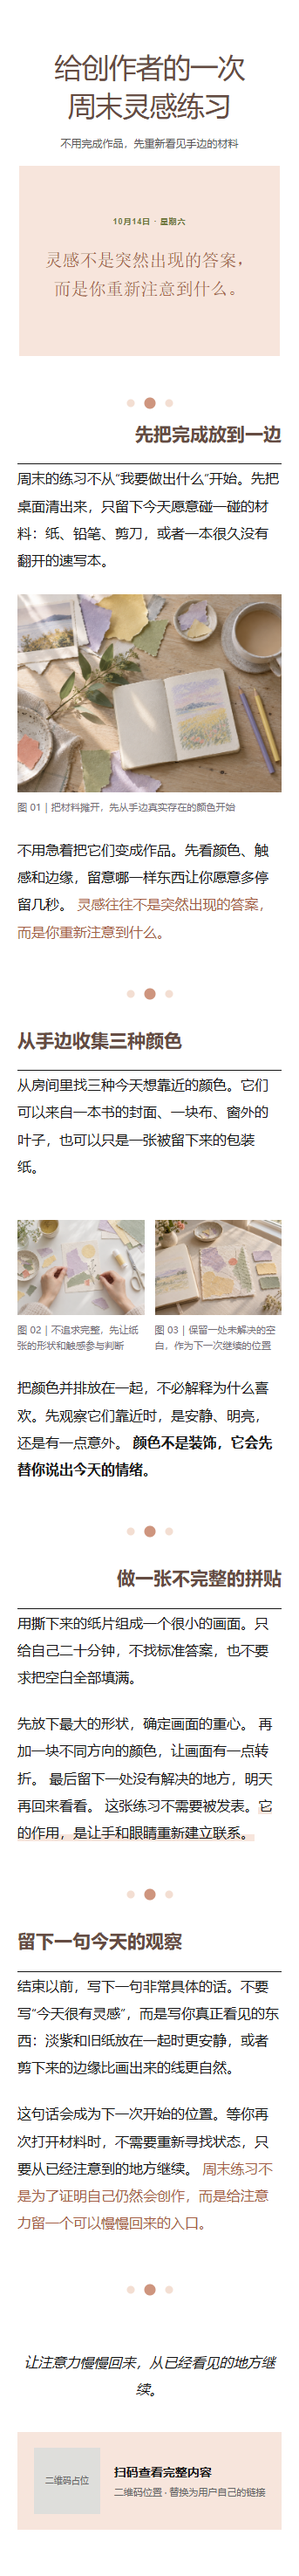
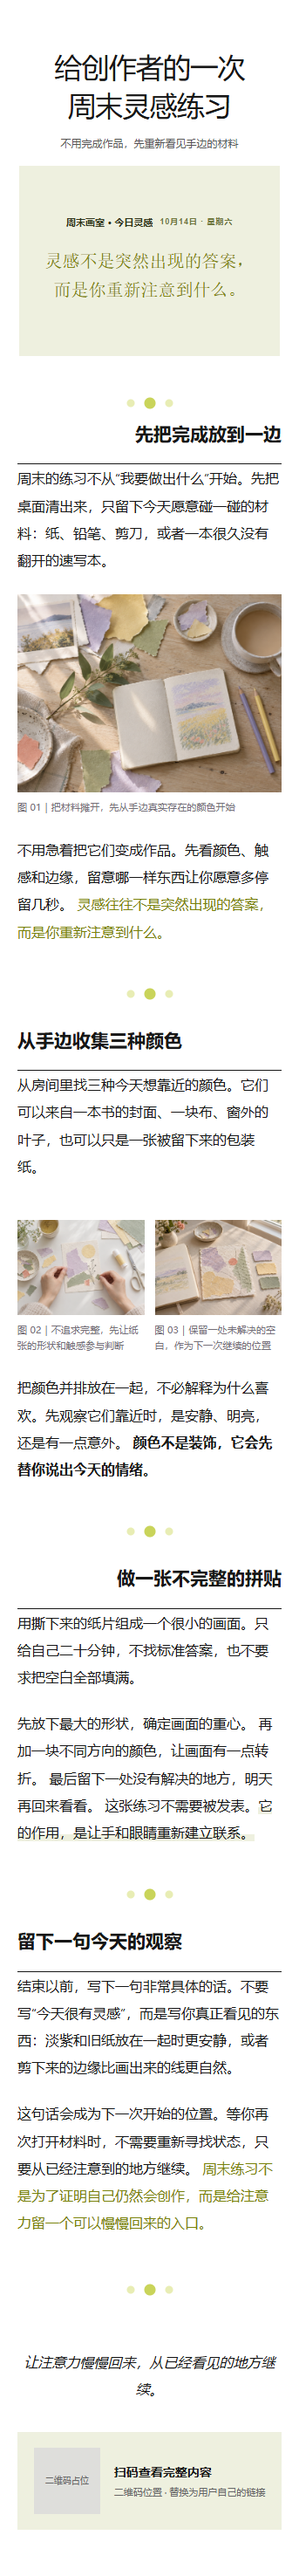
Restore approved WeChat gallery colors

diff --git a/visual-island-test/wechat-templates.js b/visual-island-test/wechat-templates.js
@@ -1,7 +1,7 @@
 (()=>{'use strict';
  const R=window.WechatTemplateRegistry,ids=R.visibleIds||[];
  const desc={'mengyu-purple-editorial':'紫调摄影导语、正文配图与编辑节奏','pastel-art-editorial':'周末灵感导语、粉彩留白与轻盈记录','monochrome-order':'秩序笔记导语、黑白细线与信息层级','warm-orange-journal':'慢行手账导语、浅暖纸张与旅行叙事','warm-beige-lifestyle':'日常器物导语、暖米叠层与生活节奏',green:'自然观察导语、橄榄标签与舒展编注'};
-const templates=ids.map(id=>({id,name:R[id].name,desc:desc[id],image:'assets/showcase/wechat-template-'+id+'-full.png?v=english-decor-049'}));
+const templates=ids.map(id=>({id,name:R[id].name,desc:desc[id],image:'assets/showcase/wechat-template-'+id+'-full.png?v=color-restore-050'}));
  const $=s=>document.querySelector(s),gallery=$('#templateGallery'),dialog=$('#fullPreviewDialog'),previewImage=$('#fullPreviewImage'),previewTitle=$('#fullPreviewTitle'),dialogEdit=$('#dialogEditLink'),dialogDownload=$('#dialogDownload'),toast=$('#templateToast');let active=templates[0];
  const esc=s=>String(s).replace(/[&<>"']/g,c=>({'&':'&amp;','<':'&lt;','>':'&gt;','"':'&quot;',"'":'&#39;'}[c]));
  gallery.innerHTML=templates.map(t=>`<article class="template-card" data-template-id="${t.id}"><button class="template-visual" type="button" data-preview="${t.id}" aria-label="预览${esc(t.name)}完整长图"><img src="${t.image}" alt="${esc(t.name)}R2公众号模板长图预览" loading="eager" decoding="async"><span>查看完整长图</span></button><div class="template-meta"><h2>${esc(t.name)}</h2><p>${esc(t.desc)}</p></div><div class="template-actions"><button type="button" data-preview="${t.id}">预览全图</button><a href="wechat-template-editor.html?template=${t.id}&new=1">编辑</a><button type="button" data-download="${t.id}">下载原版</button></div></article>`).join('');

diff --git a/visual-island-test/wechat-templates.html b/visual-island-test/wechat-templates.html
@@ -36,7 +36,7 @@
   </dialog>
   <div class="template-toast" id="templateToast" role="status" aria-live="polite"></div>
   <script src="homepage.js?v=site-catalog-006"></script>
-<script src="platform-account.js?v=activity-045"></script><script src="platform-workspace.js?v=activity-045"></script><script src="wechat-template-registry.js?v=runtime-018"></script><script src="wechat-templates.js?v=english-decor-049"></script>
+<script src="platform-account.js?v=activity-045"></script><script src="platform-workspace.js?v=activity-045"></script><script src="wechat-template-registry.js?v=runtime-018"></script><script src="wechat-templates.js?v=color-restore-050"></script>
 </body>
 </html>
 
